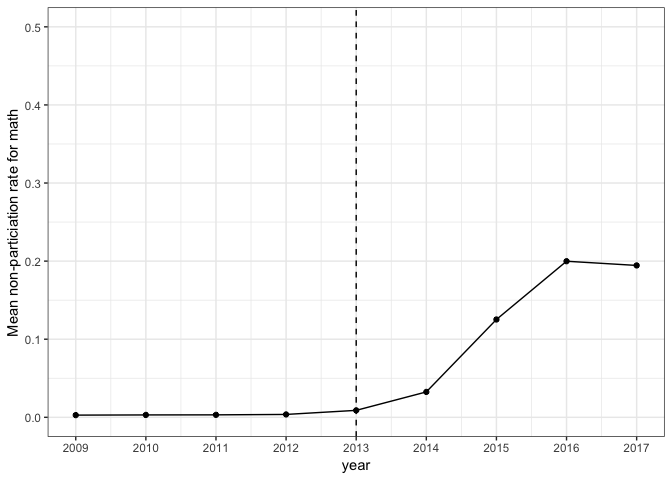
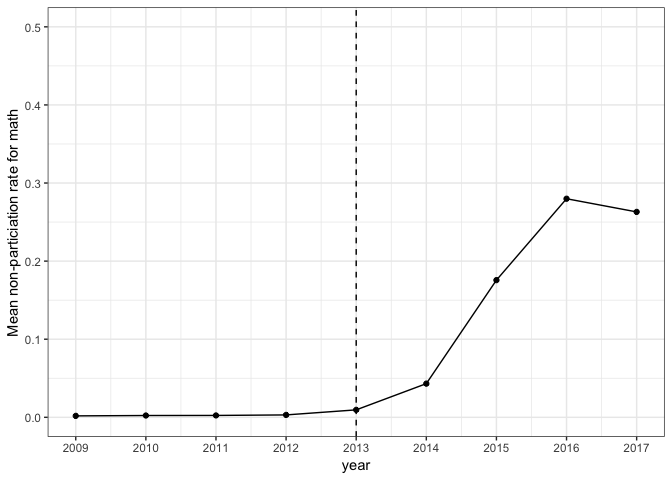
update study 3

diff --git a/_pages/dissertation_3.md b/_pages/dissertation_3.md
@@ -1,21 +1,15 @@
----
-layout: archive
-title: 'Dissertation Study 3'
-permalink: /dissertation_3/
-author_profile: true
----
-
 Using a difference-in-differences framework to analyze to role of group
 threat in social movement mobilization
 ================
 
 One study of my dissertation analyzes the causal impact of changing
-demographics within a school on student participation in boycotts of
+demographics within a school on student participatoin in boycotts of
 annual standardized tests. Based on research in social movements theory
 and educational policy, I hypothesize that when schools see increases in
 the share of students of color, students are more likely to
 participating in testing boycotts. This is called *group threat*.
-Basically, it predicts that members of majority groups will mobilize for collective action when they are exposed to more members of minority
+Basically, it predicts that members of majority groups will mobilize to
+take collective action when they are exposed to more members of minority
 groups.
 
 My case is the opt-out movement–a coalition of parents and educators who
@@ -75,7 +69,7 @@ Well with observational data, we don’t have the luxury. We have to
 accept that schools in the “treatment” group and the “control” group are
 different in many ways, some of which we can statistically control for,
 some of which (the more pernicious of which) we cannot because they are
-unobserved. But we can make a reasonable assumption–that, regardless of
+unobservd. But we can make a reasonable assumption–that, regardless of
 their differences, the schools in the two groups have *parallel trends*
 in the outcome measure in absence of the treatment. That is to say,
 while the schools have different *levels* of an outcome, the *trends
@@ -98,7 +92,7 @@ Enough background, here’s the data.
 Prior to the 2012-2013 (from now on, I will refer to the school year by
 the year-end) school year, basically all students in New York took the
 annual standardized tests. These tests are mandatory and there are
-potential penalties for schools if students do not take them. For the
+potential penalities for schools if students do not take them. For the
 most part, students did well on the test–about 70% proficiency rates
 overall. But beginning in 2013, the state adopted a new, more
 “rigorous”, assessment aligned with the recently developed Common
@@ -121,25 +115,25 @@ Starting in 2013, the proportion of students not participating in annual
 math testing increased, maxing out at about
 20%.
 
-![](http://ramorel.github.io/files/overall%20opt%20out%20trend-1.png)<!-- -->
+![](study_3_presentation_files/figure-gfm/overall%20opt%20out%20trend-1.png)<!-- -->
 
 The students participating in the boycott are primarily, but not
 exclusively,
 white.
 
-![](http://ramorel.github.io/files/trends%20by%20race-1.png)<!-- -->
+![](study_3_presentation_files/figure-gfm/trends%20by%20race-1.png)<!-- -->
 
 Schools that had increases in racial diversity between 2013 and 2013 had
 more students participating in the boycott than schools that did not–a
 bit of evidence for the group threat
 hypothesis.
 
-![](http://ramorel.github.io/files/differences%20by%20increases%20in%20diversity-1.png)<!-- -->
+![](study_3_presentation_files/figure-gfm/differences%20by%20increases%20in%20diversity-1.png)<!-- -->
 
 Again, we see this trend is true if we focus only on white
 students.
 
-![](http://ramorel.github.io/files/differences%20for%20white%20opting%20out-1.png)<!-- -->
+![](study_3_presentation_files/figure-gfm/differences%20for%20white%20opting%20out-1.png)<!-- -->
 
 ### Difference-in-differences analysis
 
@@ -170,7 +164,7 @@ summary(ny_panel$change_per_black_hisp)
 ```
 
     ##    Min. 1st Qu.  Median    Mean 3rd Qu.    Max.    NA's 
-    ##  -0.300  -0.010   0.000   0.001   0.010   0.250    7121
+    ## -0.7200 -0.0100  0.0000  0.0039  0.0100  0.7100    2325
 
 Now I will create an indicator for schools that had a net increase in
 the share of black and Latinx students between 2013 and 2015.
@@ -189,7 +183,7 @@ table(ny_panel$increase_blhp_2013_2015)
 
     ## 
     ##     0     1 
-    ## 17226 11916
+    ##  8219 10418
 
 To set up the difference-in-differences analysis, I need to create an
 indicator for the treatment period. This is the period after 2013. So
@@ -206,15 +200,15 @@ table(ny_panel$year, ny_panel$post2013)
 
     ##       
     ##           0    1
-    ##   2009 3238    0
-    ##   2010 3238    0
-    ##   2011 3238    0
-    ##   2012 3238    0
-    ##   2013 3238    0
-    ##   2014    0 3238
-    ##   2015    0 3238
-    ##   2016    0 3238
-    ##   2017    0 3238
+    ##   2009 2146    0
+    ##   2010 2158    0
+    ##   2011 2096    0
+    ##   2012 2098    0
+    ##   2013 2039    0
+    ##   2014    0 2033
+    ##   2015    0 2028
+    ##   2016    0 2026
+    ##   2017    0 2013
 
 The difference-in-differences estimator is the interaction between
 `post2013` and `increase_diverse`. This compares the proportion of
@@ -272,7 +266,7 @@ indeed parallel, but that doesn’t give much information about the two
 groups. So I will assess trends for other key
 variables.
 
-![](http://ramorel.github.io/files/parallel%20trends-1.png)<!-- -->
+![](study_3_presentation_files/figure-gfm/parallel%20trends-1.png)<!-- -->
 
 By and large, these trends between the two groups appear parallel,
 expect in the case of the share of novice teachers. There may be some
@@ -283,7 +277,7 @@ If I restrict the sample to majority white schools, the trends are
 parallel for all
 variables.
 
-![](http://ramorel.github.io/files/parallel%20trends%20white%20maj-1.png)<!-- -->
+![](study_3_presentation_files/figure-gfm/parallel%20trends%20white%20maj-1.png)<!-- -->
 
 Now, turning to the difference-in-differences analysis. I will first do
 the vanilla regression (model 1) and then the fixed effects regression
@@ -296,10 +290,11 @@ m1 <-
          increase_blhp_2013_2015*post2013 | 0 | 0 | district_cd, 
        data = ny_panel)
 
-m3 <- 
+m2 <- 
   felm(math_white_non_partic ~
          increase_blhp_2013_2015*post2013 +
-         lag(math_non_prof_rate) +
+         lag(math_all_students_non_prof_rate) +
+         lag(math_white_non_prof_rate) +
          per_fewer_3yrs_exp +
          per_mas_plus +
          per_frpl +
@@ -307,15 +302,16 @@ m3 <-
          log(total_enroll) | 0 | 0 | district_cd, 
        data = ny_panel)
 
-m4 <- 
+m3 <- 
   felm(math_white_non_partic ~
          increase_blhp_2013_2015*post2013 | 0 | 0 | district_cd, 
        data = ny_panel %>% 
          filter(mean_per_white > 0.6))
-m6 <- 
+m4 <- 
   felm(math_white_non_partic ~
          increase_blhp_2013_2015*post2013 +
-         lag(math_non_prof_rate) +
+         lag(math_all_students_non_prof_rate) +
+         lag(math_white_non_prof_rate) +
          per_fewer_3yrs_exp +
          per_mas_plus +
          per_frpl +
@@ -324,18 +320,18 @@ m6 <-
        data = ny_panel %>% 
          filter(mean_per_white > 0.6))
 
-coef_names <- unique(c(names(coef(m3))))
+coef_names <- unique(c(names(coef(m2))))
 
-names(coef_names) <- unique(c(names(coef(m3))))
+names(coef_names) <- unique(c(names(coef(m2))))
 
-names(coef_names)[c(9)] <- c("Increase in %Black/Latinx, 2013-2015")
+names(coef_names)[11] <- c("Increase in %Black/Latinx, 2013-2015")
 
 huxreg(list(`DID estimator only` = m1,
-            `Full model` = m3,
-            `DID estimator only` = m4,
-            `Full model` = m6),
+            `Full model` = m2,
+            `DID estimator only` = m3,
+            `Full model` = m4),
        statistics = c("N" = "nobs", "R2" = "r.squared", "Adj. R2" = "adj.r.squared"),
-       coefs = coef_names[9]) %>% 
+       coefs = coef_names[11]) %>% 
   insert_row(c("", "All Schools", "", "Majority White Schools", ""), after = 0) %>% 
   set_colspan(1, c(2, 4), 2) %>% 
   set_top_border(1, 1:5, 0) %>% 
@@ -344,19 +340,19 @@ huxreg(list(`DID estimator only` = m1,
   print_md()
 ```
 
-|                                      |          All Schools |            |     Majority White Schools |     |
-| ------------------------------------ | -----------------: | :----------- | -----------------: | :--------: |
-|                                      | DID estimator only | Full model   | DID estimator only | Full model |
-| Increase in %Black/Latinx, 2013-2015 |                    | \-0.014 \*\* |                    |   0.002    |
-|                                      |                    | (0.005)      |                    |  (0.008)   |
-| N                                    |              16849 | 16442        |              11734 |   11433    |
-| R2                                   |              0.377 | 0.401        |              0.438 |   0.454    |
-| Adj. R2                              |              0.377 | 0.400        |              0.438 |   0.454    |
-| \*\*\* p \< 0.001; \*\* p \< 0.01; \* p \< 0.05. |   |   |          |            |
+|                                      |          All Schoo | ls           |     Majority White |   Schools    |
+| ------------------------------------ | -----------------: | :----------- | -----------------: | :----------: |
+|                                      | DID estimator only | Full model   | DID estimator only |  Full model  |
+| Increase in %Black/Latinx, 2013-2015 |       0.065 \*\*\* | 0.065 \*\*\* |       0.056 \*\*\* | 0.056 \*\*\* |
+|                                      |            (0.012) | (0.011)      |            (0.012) |   (0.011)    |
+| N                                    |              18637 | 17193        |              13638 |    12366     |
+| R2                                   |              0.377 | 0.407        |              0.428 |    0.453     |
+| Adj. R2                              |              0.377 | 0.406        |              0.428 |    0.452     |
+| \*\*\*                               | p \< 0.001; \*\* p | \< 0.01; \*  |         p \< 0.05. |              |
 
 As we can see, the interaction between `increase_diverse` and `post2013`
 is significant and positive. Schools with increases in diversity has
-about 5 percentage points more students boycotting the test than schools
+about 6 percentage points more students boycotting the test than schools
 without increase.
 
 Let’s see if adding the fixed effects makes this association go away.
@@ -367,10 +363,11 @@ m1 <-
          increase_blhp_2013_2015*post2013 | entity_cd + year | 0 | district_cd, 
        data = ny_panel)
 
-m3 <- 
+m2 <- 
   felm(math_white_non_partic ~
          increase_blhp_2013_2015*post2013 +
-         lag(math_non_prof_rate) +
+         lag(math_all_students_non_prof_rate) +
+         lag(math_white_non_prof_rate) +
          per_fewer_3yrs_exp +
          per_mas_plus +
          per_frpl +
@@ -378,16 +375,17 @@ m3 <-
          log(total_enroll) | entity_cd + year | 0 | district_cd, 
        data = ny_panel)
 
-m4 <- 
+m3 <- 
   felm(math_white_non_partic ~
          increase_blhp_2013_2015*post2013 | entity_cd + year | 0 | district_cd, 
        data = ny_panel %>% 
          filter(mean_per_white > 0.6))
 
-m6 <- 
+m4 <- 
   felm(math_white_non_partic ~
          increase_blhp_2013_2015*post2013 +
-         lag(math_non_prof_rate) +
+         lag(math_all_students_non_prof_rate) +
+         lag(math_white_non_prof_rate) +
          per_fewer_3yrs_exp +
          per_mas_plus +
          per_frpl +
@@ -396,42 +394,43 @@ m6 <-
        data = ny_panel %>% 
          filter(mean_per_white > 0.6))
 
-coef_names <- unique(c(names(coef(m3))))
+coef_names <- unique(c(names(coef(m2))))
 
-names(coef_names) <- unique(c(names(coef(m3))))
+names(coef_names) <- unique(c(names(coef(m2))))
 
-names(coef_names)[c(9)] <- c("Increase in %Black/Latinx, 2013-2015")
+names(coef_names)[10] <- c("Increase in %Black/Latinx, 2013-2015")
 
 huxreg(list(`DID estimator only` = m1,
-            `Full model` = m3,
-            `DID estimator only` = m4,
-            `Full model` = m6),
+            `Full model` = m2,
+            `DID estimator only` = m3,
+            `Full model` = m4),
        statistics = c("N" = "nobs", "R2" = "r.squared", "Adj. R2" = "adj.r.squared"),
-       coefs = coef_names[9]) %>% 
+       coefs = coef_names[10]) %>% 
   insert_row(c("", "All Schools", "", "Majority White Schools", ""), after = 0) %>% 
   set_colspan(1, c(2, 4), 2) %>%
   print_md()
 ```
 
-|                                      |          All Schools |            |     Majority White Schools |      |
+|                                      |          All Schoo | ls           |     Majority White |   Schools    |
 | ------------------------------------ | -----------------: | :----------- | -----------------: | :----------: |
 |                                      | DID estimator only | Full model   | DID estimator only |  Full model  |
-| Increase in %Black/Latinx, 2013-2015 |       0.067 \*\*\* | 0.056 \*\*\* |       0.061 \*\*\* | 0.057 \*\*\* |
-|                                      |            (0.013) | (0.012)      |            (0.014) |   (0.013)    |
-| N                                    |              16849 | 16442        |              11734 |    11433     |
-| R2                                   |              0.711 | 0.729        |              0.764 |    0.773     |
-| Adj. R2                              |              0.668 | 0.688        |              0.731 |    0.740     |
-| \*\*\* p \< 0.001; \*\* p \< 0.01; \* p \< 0.05. |   |   |         |              |
+| Increase in %Black/Latinx, 2013-2015 |       0.063 \*\*\* | 0.053 \*\*\* |       0.057 \*\*\* | 0.054 \*\*\* |
+|                                      |            (0.012) | (0.011)      |            (0.012) |   (0.012)    |
+| N                                    |              18637 | 17193        |              13638 |    12366     |
+| R2                                   |              0.709 | 0.728        |              0.752 |    0.766     |
+| Adj. R2                              |              0.668 | 0.685        |              0.719 |    0.731     |
+| \*\*\*                               | p \< 0.001; \*\* p | \< 0.01; \*  |         p \< 0.05. |              |
 
 Case closed, right? Not quite. This evidence is compelling, but there is
 still potential bias in our results. Namely, if there are any changes
 *within a school* that are correlated with both increases in racial
 diversity and with testing boycotts, then the results are biased. There
 is something else contributing to the boycotts that is not picked up by
-my model. To give an example, let’s say that schools make changes to
-curriculum and instruction that attract families of color to them but are
+my model. To give an exmaple, let’s say that schools make changes to
+curriculum and instruction that attact families of color to them but are
 not appealing to white families. In which case, these changes could
-drive both increases in diversity *and* increases in boycotting. This is a plausible scenario, but one that I do not think is likely
+drive both increases in diversity *and* increases in boycotting. Ruh
+roh. This is a plausible scenario, but one that I do not think is likely
 based on my knowledge of the research literature. Regardless, it is
 still plausible and I need to rule out this possibility. But how? These
 within-school changes are unobserved\!
@@ -460,7 +459,8 @@ Now, I will run the same models, using the placebo indicator.
 placebo1_year <-
   felm(math_white_non_partic ~
          placebo*post2013 +
-         lag(math_non_prof_rate) +
+         lag(math_all_students_non_prof_rate) +
+         lag(math_white_non_prof_rate) +
          per_fewer_3yrs_exp +
          per_mas_plus +
          per_frpl + 
@@ -472,7 +472,8 @@ placebo1_year <-
 placebo2_year <-
   felm(math_white_non_partic ~
          placebo*post2013 +
-         lag(math_non_prof_rate) +
+         lag(math_all_students_non_prof_rate) +
+         lag(math_white_non_prof_rate) +
          per_fewer_3yrs_exp +
          per_mas_plus +
          per_frpl + 
@@ -489,11 +490,11 @@ coef_names <- unique(c(names(coef(placebo1_year))))
 
 names(coef_names) <- unique(c(names(coef(placebo1_year))))
 
-names(coef_names)[c(9)] <- c("Increase in %Black/Latinx, 2016-2017")
+names(coef_names)[10] <- c("Increase in %Black/Latinx, 2016-2017")
 
 huxreg(
   placebo_models,
-  coefs = coef_names[c(9)],
+  coefs = coef_names[10],
   statistics = c(
     "N" = "nobs",
     "R2" = "r.squared",
@@ -506,12 +507,12 @@ huxreg(
 
 |                                      | All Schools   | Majority White Schools |
 | ------------------------------------ | ------------- | :--------------------- |
-| Increase in %Black/Latinx, 2016-2017 | 0.017         | 0.013                  |
-|                                      | (0.009)       | (0.011)                |
-| N                                    | 4538          | 2958                   |
-| R2                                   | 0.633         | 0.714                  |
+| Increase in %Black/Latinx, 2016-2017 | \-0.006       | \-0.012                |
+|                                      | (0.009)       | (0.010)                |
+| N                                    | 4030          | 2553                   |
+| R2                                   | 0.640         | 0.721                  |
 | Adj. R2                              | 0.556         | 0.656                  |
-| \*\*\* p \< 0.001; \*\* p \< 0.01; \* p \< 0.05.  |  |                        |
+| \*\*\* p \< 0.001; \*\*              | p \< 0.01; \* | p \< 0.05.             |
 
 Violà. The interaction is no longer significant, the point estimate
 basically zero, but not precisely estimated.
